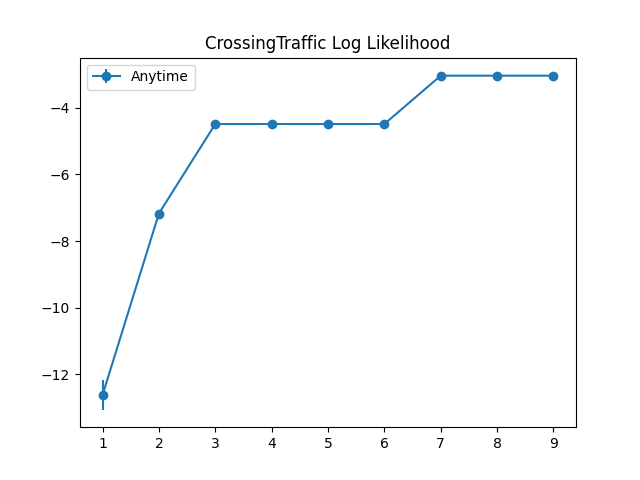
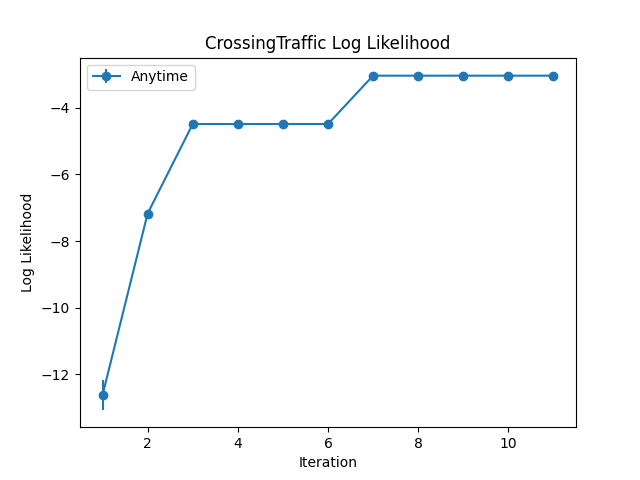
CrossingTraffic

diff --git a/src/plot.py b/src/plot.py
@@ -21,21 +21,21 @@ import sys, os
 
 
 datasets = ['Export_Textiles', 'Test_Strep', 'HIV_Screening', 'Computer_Diagnostician', 'Powerplant_Airpollution', 'LungCancer_Staging']
-dataset = 'Navigation'
+dataset = 'CrossingTraffic'
 path = "test"
-path = "new_results_depth"
+path = "new_results_depth1"
 
 plot_path = f"{path}/{dataset}"
 
-runtime = [283.31241512298584, 783.5959687232971, 846.5336625576019, 789.5973365306854, 1084.5150356292725, 1327.8394014835358, 1308.8737914562225, 1525.1038265228271, 1769.5259737968445, 1913.9400238990784, 2042.3172421455383]
-avg_ll = [-4.116424278933279, -2.113518334819445, -1.4393207685426315, -1.4393207685426315, -1.4393207685426315, -1.4393207685426315, -0.25974613589634254, -0.25974613589634254, -0.25974613589634254, -0.25974613589634254, -0.25974613589634254]
-ll_dev= [0.07563352462533411, 0.06690529782580432, 0.036895127955141944, 0.036895127955141944, 0.036895127955141944, 0.036895127955141944, 0.023240346211611484, 0.023240346211611484, 0.023240346211611484, 0.023240346211611484, 0.023240346211611484]
+runtime = [367.90279507637024, 806.3270936012268, 3164.336494445801, 3874.411342382431, 4633.373266220093, 5392.799260139465, 5523.524729251862, 11957.648134231567, 12560.33174777031, 12428.710459947586, 6803.5443415641785]
+avg_ll = [-12.62200935452218, -7.172130296998749, -4.485157790960345, -4.485157790960345, -4.485157790960345, -4.485157790960345, -3.0328539659488234, -3.0328539659488234, -3.0328539659488234, -3.0328539659488234, -3.0328539659488234]
+ll_dev= [0.46294919289399167, 0.06970015640902255, 0.04424240994764077, 0.04424240994764077, 0.04424240994764077, 0.04424240994764077, 0.03784934657653855, 0.03784934657653855, 0.03784934657653855, 0.03784934657653855, 0.03784934657653855]
 meus = [-4.884400462053216, -4.880978572368808, -4.690673447301574, -4.690673447301574, -4.690673447301574, -4.690673447301574, -4.049331963001028, -4.049331963001028, -4.049331963001028, -4.049331963001028, -4.049331963001028]
-nodes = [893, 4578, 12681, 12681, 12675, 12675, 17426, 17426, 17426, 17426, 17426]
-edges = [792, 4163, 11285, 11285, 11279, 11279, 15274, 15274, 15274, 15274, 15274]
-layers = [16, 24, 22, 22, 22, 22, 16, 16, 16, 16, 16]
-avg_rewards = [-4.946, -5.0, -5.0, -5.0, -5.0, -5.0, -4.0416, -4.0408, -4.0408, -4.0408, -4.0412]
-reward_dev = [0.02788548009269327, 0.0, 0.0, 0.0, 0.0, 0.0, 0.03444183502660688, 0.03669550381177512, 0.03742940020892686, 0.035611234182487995, 0.03665187580465679]
+nodes = [2990, 13500, 140129, 140129, 140129, 140129, 198840, 198840, 198840, 198840, 198840]
+#edges = [792, 4163, 11285, 11285, 11279, 11279, 15274, 15274, 15274, 15274, 15274]
+#layers = [16, 24, 22, 22, 22, 22, 16, 16, 16, 16, 16]
+#avg_rewards = [-4.946, -5.0, -5.0, -5.0, -5.0, -5.0, -4.0416, -4.0408, -4.0408, -4.0408, -4.0412]
+#reward_dev = [0.02788548009269327, 0.0, 0.0, 0.0, 0.0, 0.0, 0.03444183502660688, 0.03669550381177512, 0.03742940020892686, 0.035611234182487995, 0.03665187580465679]
 
 
 original_stats = get_original_stats(dataset)
@@ -93,7 +93,7 @@ plt.ylabel("# Nodes")
 plt.legend()
 plt.savefig(f"{plot_path}/nodes.png", dpi=100)
 plt.close()
-
+'''
 plt.plot(range(1,len(edges)+1), edges, marker="o", label="Anytime")
 plt.plot(range(1,len(edges)+1), [original_stats["edges"]]*len(edges), linestyle="dotted", color ="red", label="LearnSPMN")
 plt.title(f"{dataset} Edges")
@@ -128,3 +128,4 @@ plt.title(f"{dataset} Average Rewards")
 plt.legend()
 plt.savefig(f"{plot_path}/rewards.png", dpi=100)
 plt.close()
+'''

diff --git a/src/spn/data/domain_stats.py b/src/spn/data/domain_stats.py
@@ -7,7 +7,7 @@ original_stats = {
 	'HIV_Screening': {"ll" : -0.6276399171508842, "meu" : 42.582734183407034, 'nodes' : 112, 'reward':42.559788119992646, 'dev':0.06067708771159484},
 	'Computer_Diagnostician': {"ll" : -0.9011245432112749, "meu" : -208.351, 'nodes' : 56, 'reward':-210.15520000000004, 'dev':0.3810022440878799},
 	'Powerplant_Airpollution': {"ll" : -1.0796885930912947, "meu" : -2756263.244346315, 'nodes' : 38, 'reward':-2759870.4, 'dev':6825.630813338794},
-	'Navigation': {"ll" : -0.25421657291373406, "meu" : -4.049331963001028, 'nodes' : 17426, 'edges' : 15274, 'layers' : 16, 'reward':-4.0412, 'dev':0.03665187580465679, 'runtime':2044.684020280838},
+	'Navigation': {"ll" : -0.25421657291373406, "meu" : -4.049331963001028, 'nodes' : 17426, 'edges' : 15274, 'layers' : 16, 'reward':-4.052, 'dev':0.022825424421026797, 'runtime':2044.684020280838},
 	'Navigation1': {"ll" : -0.24199351938969704, "meu" : -3.120315581854044, 'nodes' : 17338, 'reward':-3.1046000000000005, 'dev':0.042266298631415615, 'runtime':3610.374293088913},
 	'Elevators': {"ll" : 0, "meu" : 0.5, 'nodes' : 38227, 'edges' : 32766, 'layers' : 14, 'reward':0.5, 'dev':0.0, 'runtime':2499.035037279129},
 }
